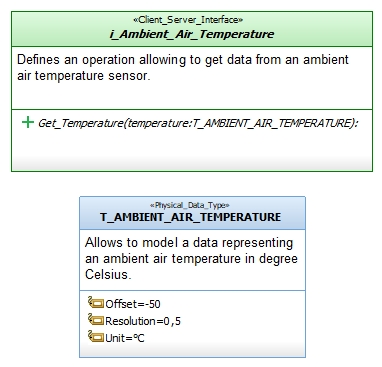
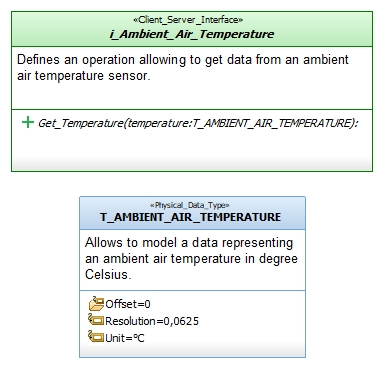
Modify T_AMBIENT_AIR_TEMPERATURE resolution (0.0625)

diff --git a/src/T_AMBIENT_AIR_TEMPERATURE.h b/src/T_AMBIENT_AIR_TEMPERATURE.h
@@ -7,13 +7,10 @@
 /* Allows to model a data representing an ambient air temperature in degree Celsius.*/
 /*
 Unit : °C
-Resolution : 0,5
-Offset : -50
-
-min : -50 °C
-max : 77,5 °C
+Resolution : 0,0625
+Offset : 0
 */
-typedef uint8_t T_AMBIENT_AIR_TEMPERATURE;
+typedef uint16_t T_AMBIENT_AIR_TEMPERATURE;
 
 
 #endif
